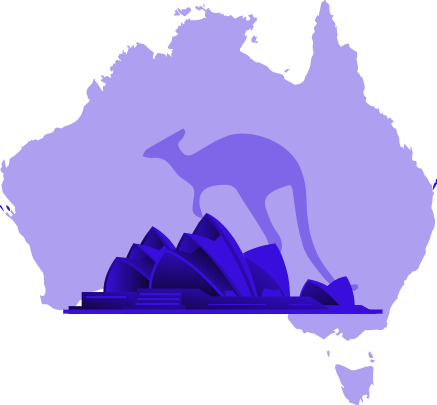
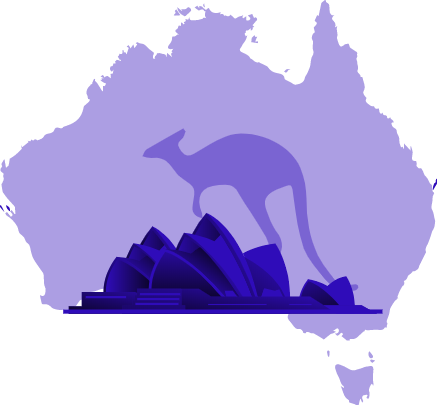
changed darkpurple color

Changed region(s): [[0.1487, 0.5333, 0.8627, 0.8], [0.9817, 0.4444, 1.0, 0.4741]]

diff --git a/css/style.css b/css/style.css
@@ -142,7 +142,7 @@ body {
   display: relative;
   background-color: #ffffff;
   text-align: center;
-  color: #4F4BEC;
+  color: #2f0cb9;
   font-weight: bold;
 }
 
@@ -193,6 +193,6 @@ body {
   font-weight: bold;
   padding: 0.5625rem 1.6875rem;
   color: #ffffff;
-  background-color: #4F4BEC;
+  background-color: #2f0cb9;
 }
 /*# sourceMappingURL=style.css.map */

diff --git a/css/style.scss b/css/style.scss
@@ -13,7 +13,7 @@ $purple: #5041EB;
 $lightblue: #48A4FA;
 $lightgray: #F8F9FA;
 $white: #ffffff;
-$darkpurple: #4F4BEC;
+$darkpurple: darken(#370EDB, 7%);
 $primary-color: $purple;
 $secondary-color: $lightblue;
 $bg-color: $lightgray;
